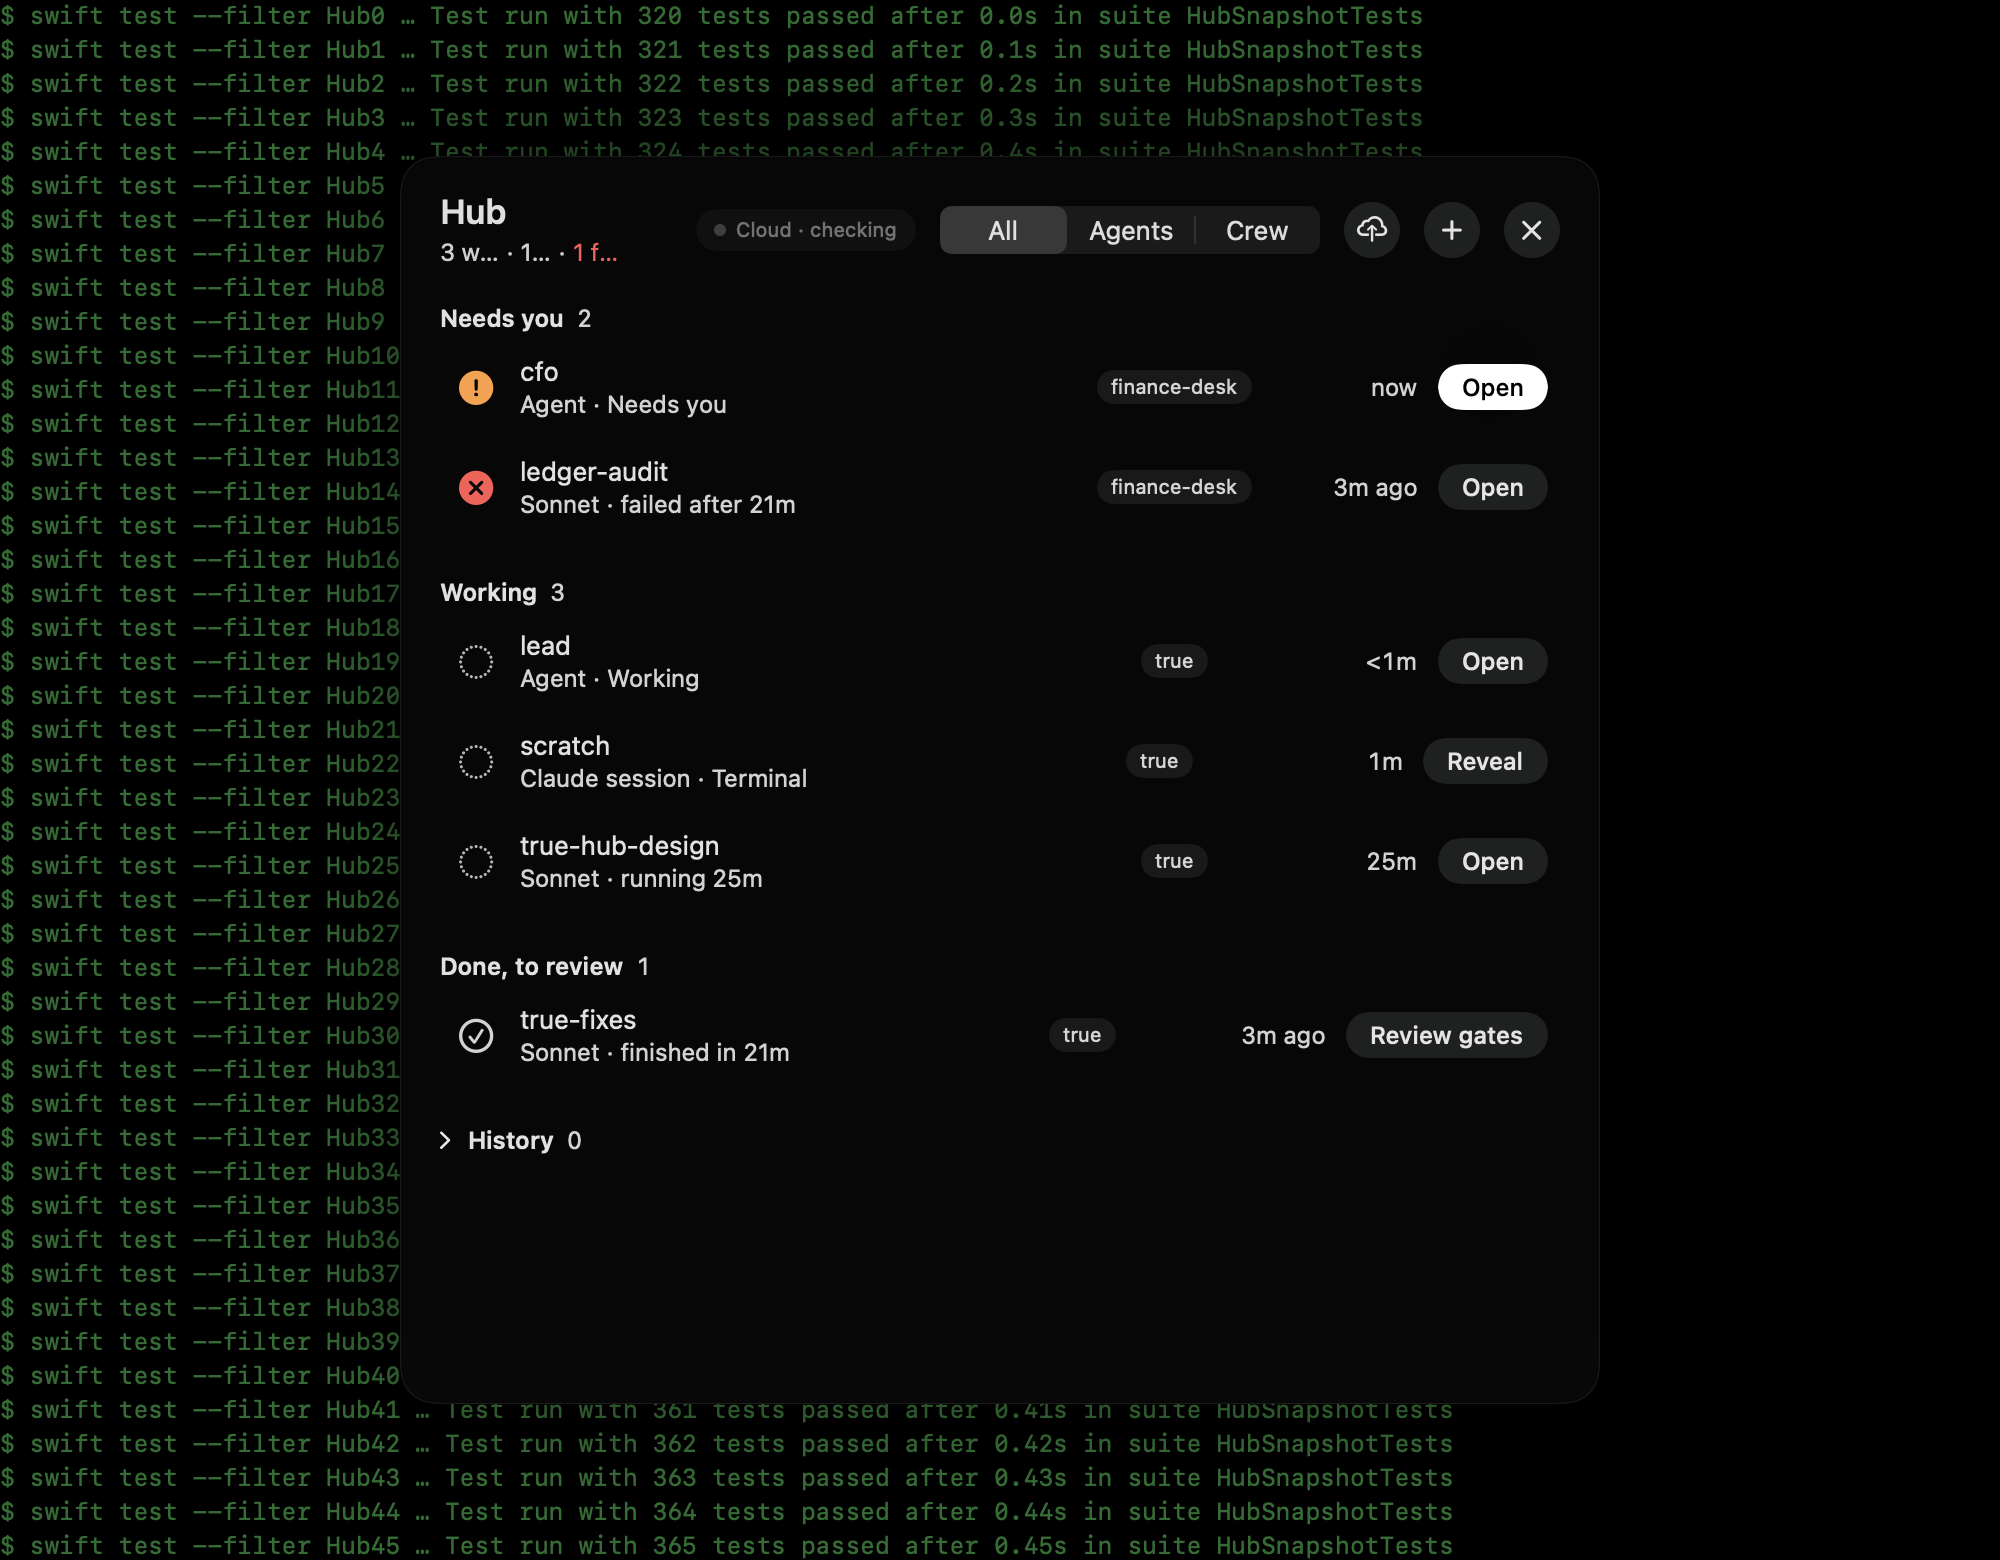
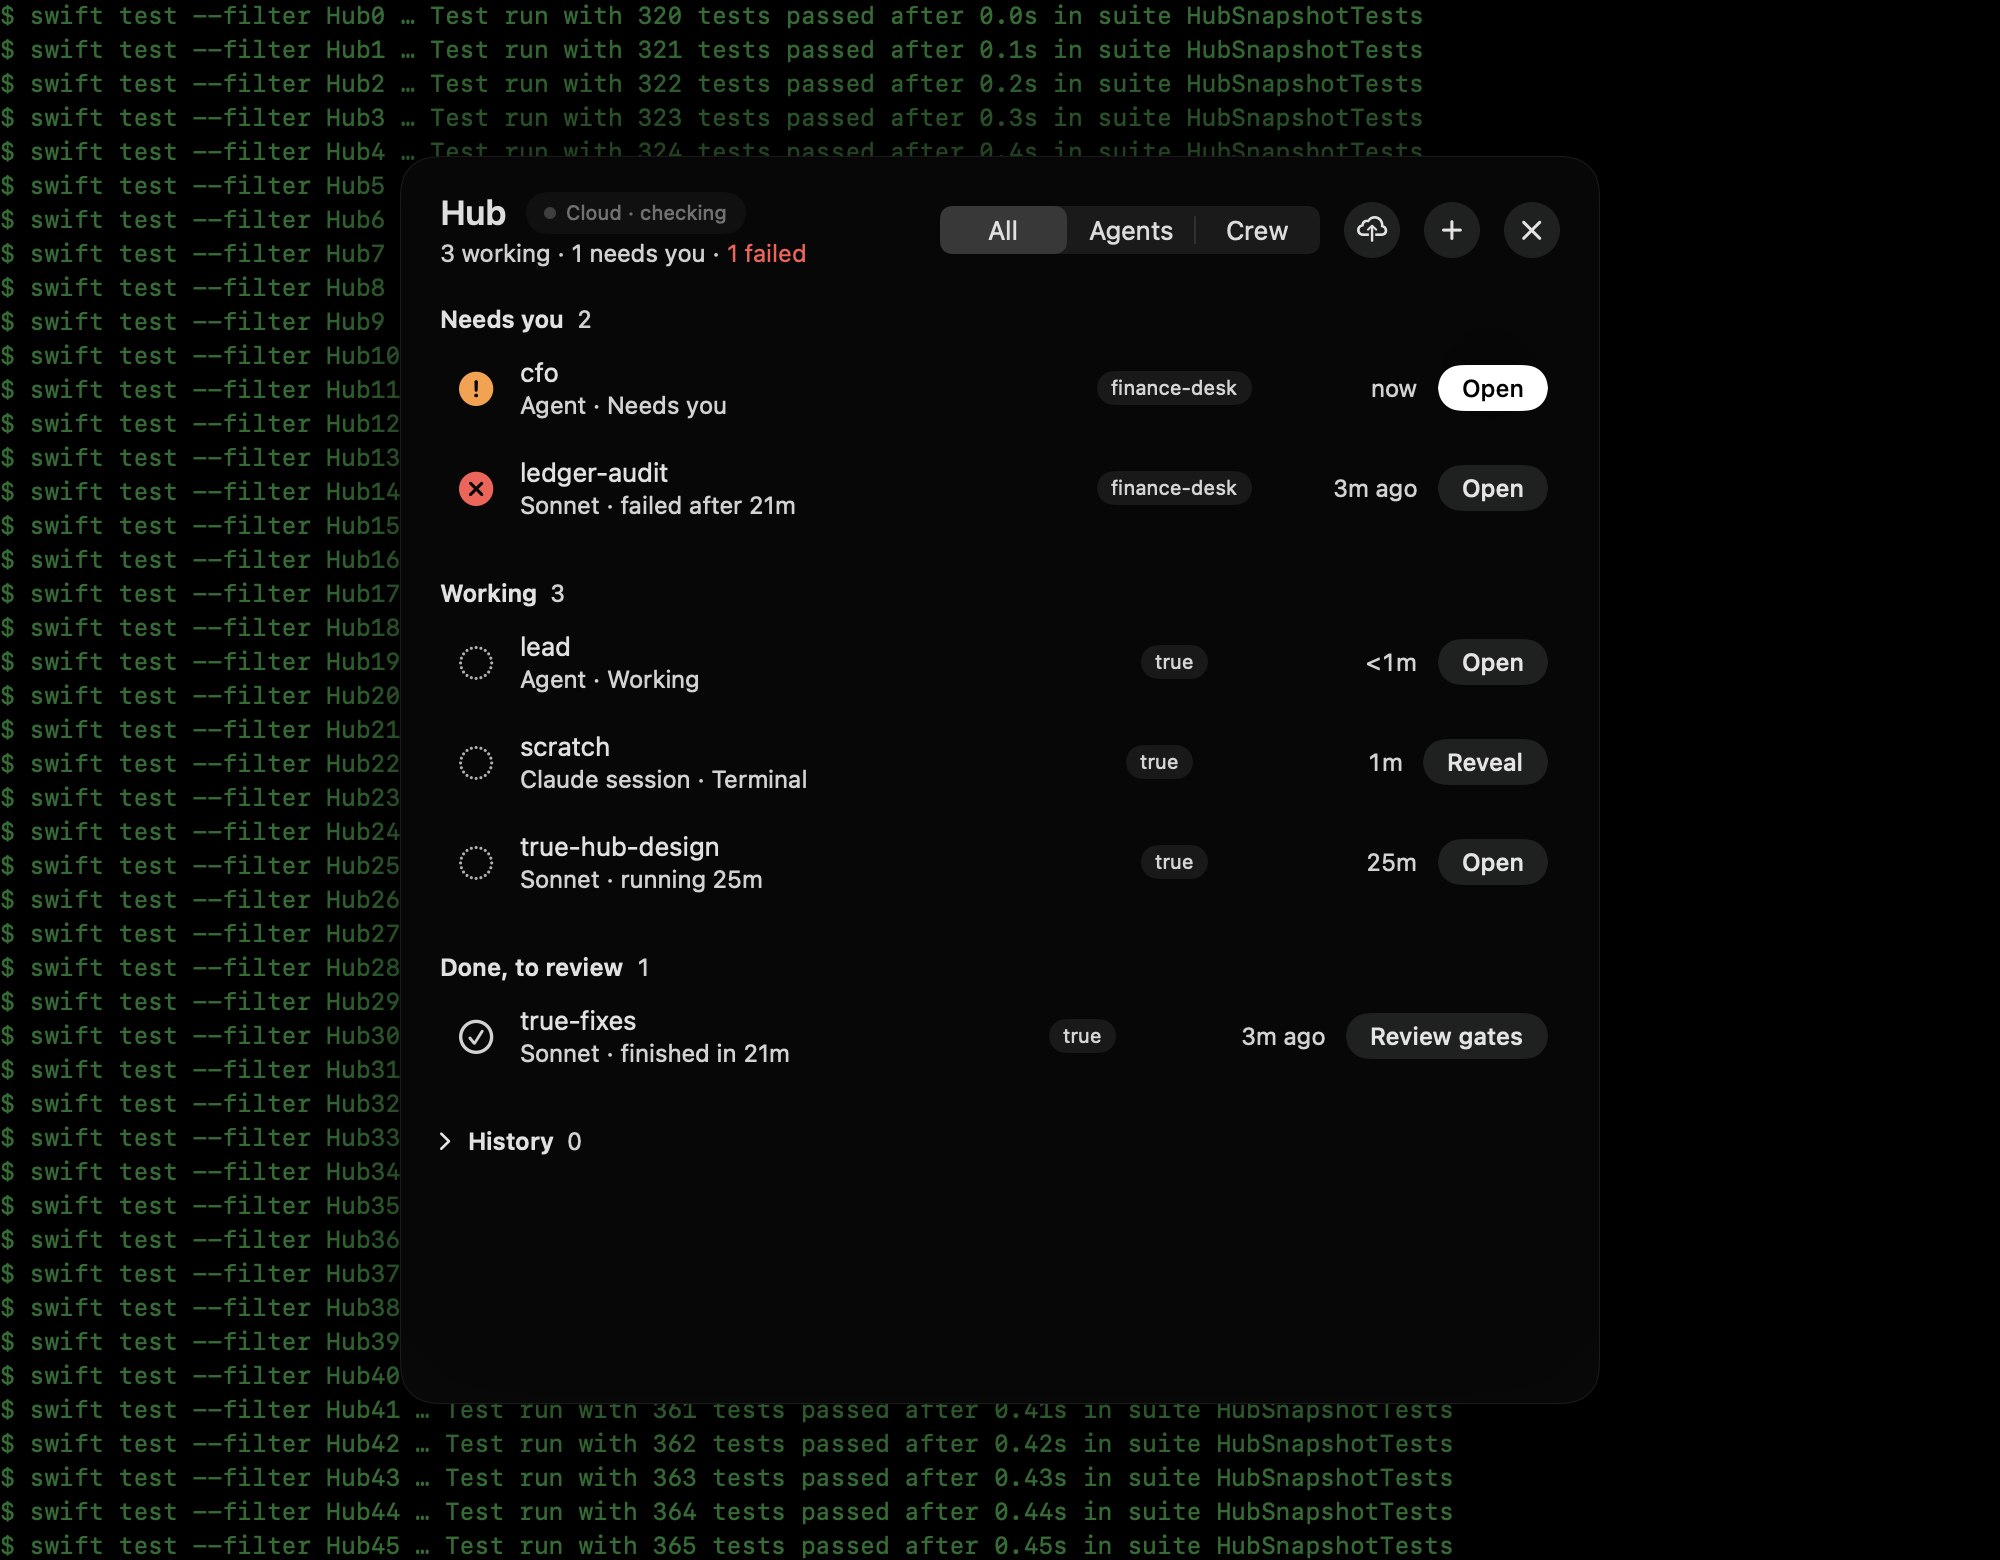
Hub triage: fix header overflow, one-text group label, refreshed proofs

diff --git a/Sources/True/Views/HubPanel.swift b/Sources/True/Views/HubPanel.swift
@@ -232,11 +232,14 @@ struct HubPanelContent: View {
     private func header(_ buckets: [TriageBucket]) -> some View {
         HStack(alignment: .center, spacing: 12) {
             VStack(alignment: .leading, spacing: 2) {
-                Text("Hub").font(.title2.weight(.semibold)).foregroundStyle(Theme.text)
+                HStack(spacing: 10) {
+                    Text("Hub").font(.title2.weight(.semibold)).foregroundStyle(Theme.text)
+                    if filter == .all { cloudPill }
+                }
                 if filter != .crew { summary(buckets) }
             }
+            .layoutPriority(1)
             Spacer(minLength: 8)
-            if filter == .all { cloudPill }
             Picker("Show", selection: $filter) {
                 Text("All").tag(HubFilter.all)
                 Text("Agents").tag(HubFilter.seats)
@@ -287,7 +290,7 @@ struct HubPanelContent: View {
                     .help("Jump to the first failure")
                 }
             }
-            .font(.callout).foregroundStyle(Theme.hubSecondary).lineLimit(1)
+            .font(.callout).foregroundStyle(Theme.hubSecondary).lineLimit(1).fixedSize()
         } else {
             Text(liveSummary).font(.callout).foregroundStyle(Theme.hubSecondary).lineLimit(1)
         }

diff --git a/Sources/True/Views/HubTriageView.swift b/Sources/True/Views/HubTriageView.swift
@@ -157,8 +157,8 @@ struct TriageGroupView: View {
             TriageRowFrame(selected: selected == id) {
                 HStack(spacing: 10) {
                     TriageGlyph(tone: tone, cloud: items.allSatisfy(\.isCloud))
-                    Text(project).font(.body).foregroundStyle(Theme.text).lineLimit(1).truncationMode(.middle)
-                    Text("· \(label)").font(.body).foregroundStyle(Theme.hubSecondary).lineLimit(1)
+                    (Text(project).foregroundStyle(Theme.text) + Text(" · \(label)").foregroundStyle(Theme.hubSecondary))
+                        .font(.body).lineLimit(1).truncationMode(.middle)
                     Spacer(minLength: 6)
                     Text(groupTime).font(.callout.monospacedDigit()).foregroundStyle(Theme.hubSecondary)
                     Image(systemName: "chevron.right").font(.system(size: 11, weight: .semibold))
